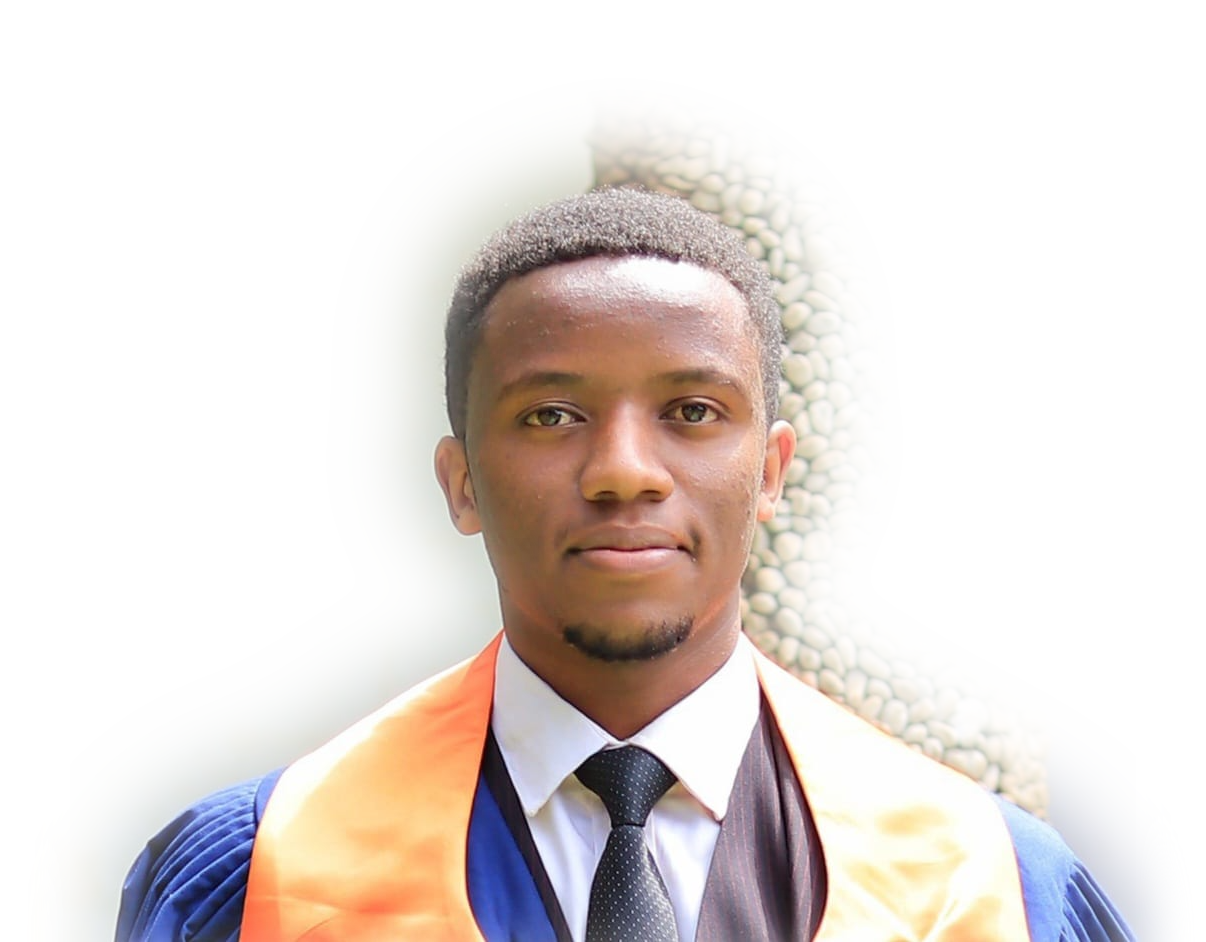
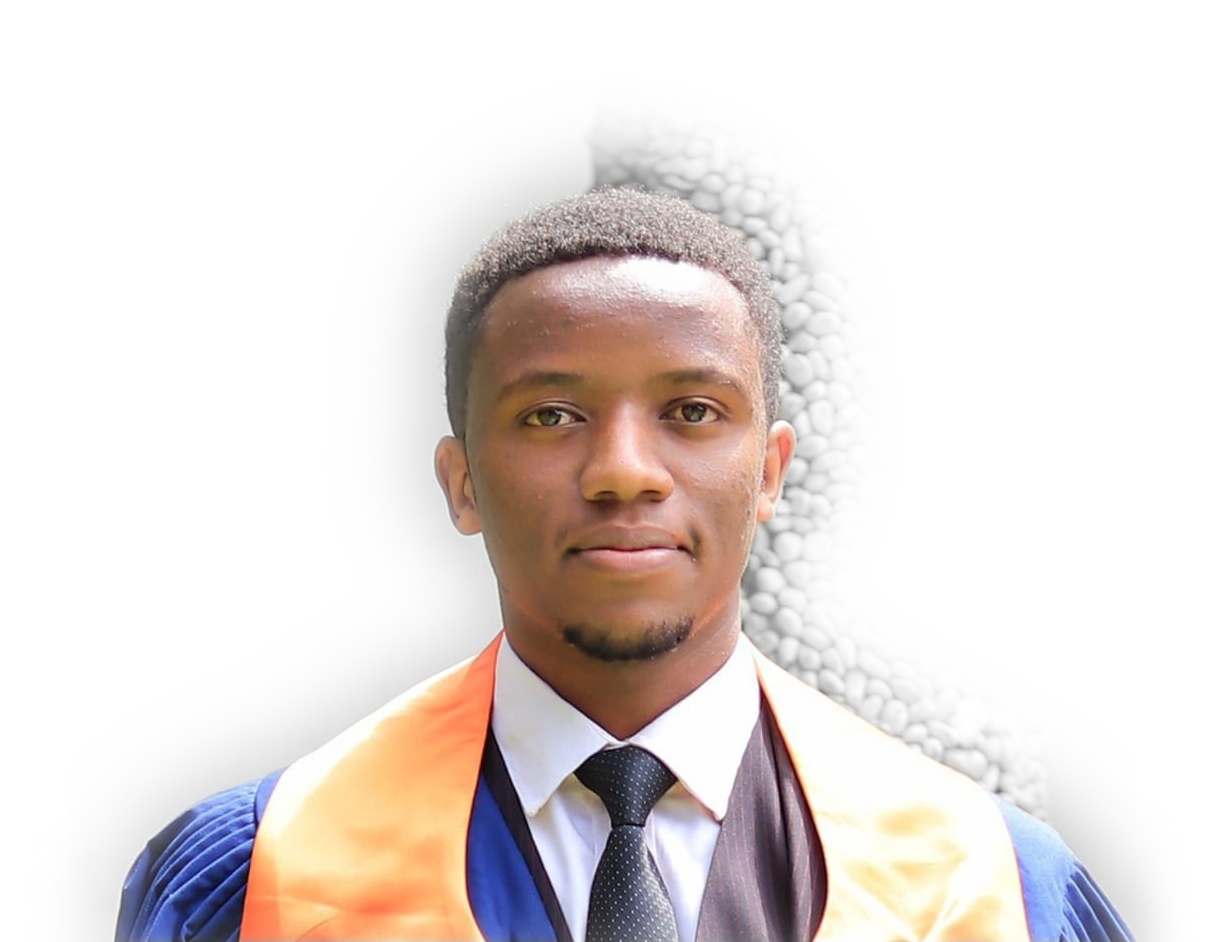
Show the portrait in colour with a grayscale background
He is now in full colour and only the soft halo of background around him
is grayscale, baked into the image with a subject mask so the edges stay
clean. The CSS grayscale filter is removed; hovering still reveals the
background in colour.

diff --git a/css/styles.css b/css/styles.css
@@ -143,7 +143,7 @@ h2 { font-size: clamp(34px, 5vw, 64px); letter-spacing: -.04em; line-height: 1.0
 .portrait { position: relative; align-self: end; justify-self: end; width: clamp(460px, 52vw, 800px); margin-right: calc((100vw - min(100vw - 48px, var(--wrap))) / -4); } /* large, set slightly in from the right edge */
 /* "My ability card" sits in the empty space to the right of his head: clear of the shoulders and the text */
 .portrait .chip { left: auto; right: calc(100% - 3%); top: auto; bottom: 10%; white-space: nowrap; } /* lower left, just outside his right shoulder */
-.portrait img { width: 100%; height: auto; filter: grayscale(1) contrast(1.06); }
+.portrait img { width: 100%; height: auto; filter: none; } /* colour comes baked into the image: him in colour, background halo in gray */
 @property --rr { syntax: '<length>'; inherits: false; initial-value: 0px; }
 .portrait-reveal { position: absolute; left: 0; bottom: 0; width: 100%; height: auto; pointer-events: none; filter: none !important; --mx: 50%; --my: 40%; --rr: 0px;
   -webkit-mask: radial-gradient(circle at var(--mx) var(--my), #000 calc(var(--rr) * .55), transparent var(--rr)); mask: radial-gradient(circle at var(--mx) var(--my), #000 calc(var(--rr) * .55), transparent var(--rr));
